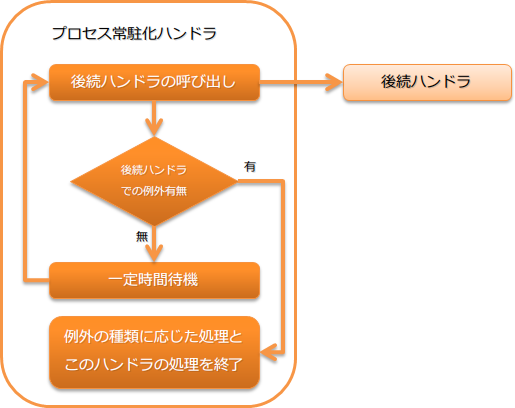
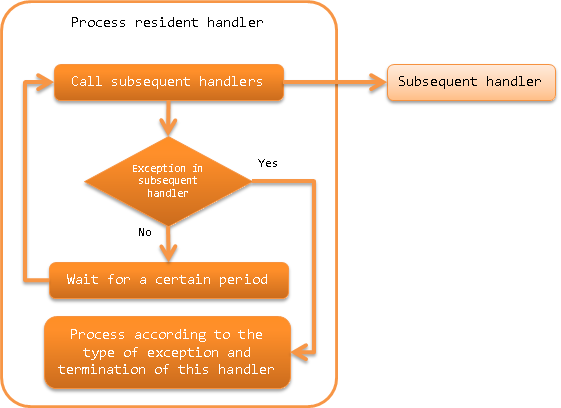
プロセス常駐化ハンドラページを英語化

diff --git a/en/application_framework/application_framework/handlers/batch/process_resident_handler.rst b/en/application_framework/application_framework/handlers/batch/process_resident_handler.rst
@@ -1,30 +1,30 @@
 .. _process_resident_handler:
 
-プロセス常駐化ハンドラ
+Process Resident Handler
 ==================================================
-.. contents:: 目次
+.. contents:: Table of contents
   :depth: 3
   :local:
 
-後続のハンドラキューの内容を一定間隔毎に繰り返し実行するハンドラ。
-本ハンドラは、特定のデータソース上の入力データを定期的に監視してバッチ処理を行う、いわゆる常駐起動型のバッチ処理で用いられる。
+A handler that repeatedly executes the contents of subsequent handler queues at regular intervals.
+This handler periodically monitors the input data of a specific data source and performs batch processing and is used in the so-called resident startup type batch process.
 
-本ハンドラでは、以下の処理を行う。
+This handler performs the following processes:
 
-* 一定間隔(データの監視間隔)毎に後続ハンドラの呼び出し。
-* 後続ハンドラで例外発生時に、このハンドラの継続有無などを判断する。
-  詳細は、 :ref:`process_resident_handler-exception` を参照。
+* Calls subsequent handlers at regular intervals (data monitoring intervals).
+* When an exception occurs in a subsequent handler, determines the continuation of the handler.
+  For details, see :ref:`process_resident_handler-exception`.
 
-処理の流れは以下のとおり。
+The process flow is as follows.
 
 .. image:: ../images/ProcessResidentHandler/flow.png
   :scale: 80
 
-ハンドラクラス名
+Handler class name
 --------------------------------------------------
 * :java:extdoc:`nablarch.fw.handler.ProcessResidentHandler`
 
-モジュール一覧
+Module list
 --------------------------------------------------
 .. code-block:: xml
 
@@ -33,88 +33,84 @@
     <artifactId>nablarch-fw-standalone</artifactId>
   </dependency>
 
-制約
+Constraints
 ------------------------------
-本ハンドラは、リトライハンドラよりも後ろに設定すること
-  本ハンドラで実行時例外を補足した場合、リトライ可能例外( :java:extdoc:`RetryableException <nablarch.fw.handler.retry.RetryableException>` )でラップしてから再送出し、
-  プロセスの継続制御を :ref:`retry_handler` に委譲する。
-  このため、このハンドラはリトライハンドラより後に設定する必要がある。
+This handler must be configured after the retry handler.
+  If a runtime exception is caught by this handler, rethrows after wrapping it with a retryable exception ( :java:extdoc:`RetryableException <nablarch.fw.handler.retry.RetryableException>` ) and delegates the process continuation control to retry_handler.
+  Therefore, this handler must be configured after the retry handler.
 
-データの監視間隔を設定する
+Configure the data monitoring interval
 --------------------------------------------------
-データの監視間隔は、 :java:extdoc:`dataWatchInterval <nablarch.fw.handler.ProcessResidentHandler.setDataWatchInterval(int)>` プロパティにミリ秒で設定する。
-設定を省略した場合のデフォルト値は、1000ミリ秒(1秒)となっている。
+Data monitoring interval is configured in milliseconds in the :java:extdoc:`dataWatchInterval <nablarch.fw.handler.ProcessResidentHandler.setDataWatchInterval(int)>` property.
+The default value when the configuration is omitted is 1000 milliseconds (1 second).
 
-以下に例を示す。
+An example is shown below.
 
 .. code-block:: xml
 
   <component name="settingsProcessResidentHandler"
       class="nablarch.fw.handler.ProcessResidentHandler">
 
-    <!-- データの監視間隔に5秒(5000)を設定 -->
+    <!-- Configure 5 seconds (5000) for data monitoring interval -->
     <property name="dataWatchInterval" value="5000" />
-    <!-- その他のプロパティは省略 -->
+    <!-- Other properties are omitted -->
   </component>
 
 .. _process_resident_handler-normal_end:
 
-プロセス常駐化ハンドラの終了方法
+How to terminate the process resident handler
 --------------------------------------------------
-このハンドラはプロセスの正常終了を示す例外が送出された場合に、後続のハンドラの呼び出しを止め処理を終了する。
-デフォルトでは、 :ref:`process_stop_handler` が送出する処理停止を示す例外( :java:extdoc:`ProcessStop <nablarch.fw.handler.ProcessStopHandler.ProcessStop>` (サブクラス含む))が送出された場合に、このハンドラは処理を終了する。
+This handler stops subsequent handler calls and terminates processing if an exception indicating the normal termination of the process has been thrown.
+By default, this handler ends when the :ref:`process_stop_handler` processing stop exception ( :java:extdoc:`ProcessStop <nablarch.fw.handler.ProcessStopHandler.ProcessStop>` (including subclasses)) is thrown.
 
-プロセスの正常終了を示す例外を変更したい場合には、 :java:extdoc:`normalEndExceptions <nablarch.fw.handler.ProcessResidentHandler.setNormalEndExceptions(java.util.List)>` プロパティに例外クラスのリストを設定する。
-なお、例外リストを設定する場合にはデフォルトの設定が上書きされるため、 :java:extdoc:`ProcessStop <nablarch.fw.handler.ProcessStopHandler.ProcessStop>` の設定を忘れずに行う必要がある。
+To change the exception that indicates successful completion of a process, configure the :java:extdoc:`normalEndExceptions <nablarch.fw.handler.ProcessResidentHandler.setNormalEndExceptions(java.util.List)>` property to a list of exception classes.
+When the exception list is configured, the default configuration is overwritten, and :java:extdoc:`ProcessStop <nablarch.fw.handler.ProcessStopHandler.ProcessStop>` has to be configured without fail.
 
-以下に例を示す。
+An example is shown below.
 
 .. code-block:: xml
 
   <component name="settingsProcessResidentHandler"
       class="nablarch.fw.handler.ProcessResidentHandler">
 
-    <!-- プロセスの正常終了を示す例外リスト -->
+    <!-- Exception list indicating the normal termination of the process -->
     <property name="normalEndExceptions">
       <list>
-        <!-- Nablarchデフォルトのプロセス停止を示す例外クラス -->
+        <!-- Exception class indicating default process stop of Nablarch -->
         <value>nablarch.fw.handler.ProcessStopHandler$ProcessStop</value>
-        <!-- プロジェクトカスタムなプロセス停止を示す例外クラス(サブクラスも対象となる) -->
+        <!-- Exception class indicating project custom process stop (subclasses are also covered) -->
         <value>sample.CustomProcessStop</value>
       </list>
     </property>
 
-    <!-- その他のプロパティは省略 -->
+    <!-- Other properties are omitted -->
   </component>
 
 .. _process_resident_handler-exception:
 
-後続ハンドラで発生した例外の扱い
---------------------------------------------------
-このハンドラでは、後続のハンドラで発生した例外の種類に応じて、処理を継続するか、終了するかが切り替わる。
+Handling exceptions that occur in subsequent handlers
+--------------------------------------------------------------------
+In this handler, processing is switched between continuation or termination depending on the type of exception that has occurred in the subsequent handler.
 
-以下に例外毎の処理内容を示す。
+The following shows the processing details of each exception.
 
-サービス閉塞中例外( :java:extdoc:`ServiceUnavailable <nablarch.fw.results.ServiceUnavailable>` )
-  サービス閉塞中例外の場合には、データ監視間隔に設定された時間分待機後に、再度後続ハンドラを実行する。
+Exception during service shutdown( :java:extdoc:`ServiceUnavailable <nablarch.fw.results.ServiceUnavailable>` )
+  In the case of an exception during service shutdown, executes the subsequent handler again after waiting for the time set in the data monitoring interval.
 
-リトライ可能例外
-  リトライ可能例外( :java:extdoc:`RetryUtil#isRetryable() <nablarch.fw.handler.retry.RetryUtil.isRetryable(java.lang.Throwable)>` が真を返す場合)の場合は、
-  何もせずに捕捉した例外を再送出する。
+Retryable exception
+  In the case of retryable exception ( :java:extdoc:`RetryUtil#isRetryable() <nablarch.fw.handler.retry.RetryUtil.isRetryable(java.lang.Throwable)>` returns true), re-throws the exception that is caught without doing anything.
 
-プロセスを異常終了する例外
-  プロセスを異常終了させることを示す例外の場合は、なにもせずに捕捉した例外を再送出する。
+Exception that terminates the process abnormally
+  For exceptions indicating abnormal termination, resends the caught exception without doing anything.
 
-  プロセスを異常終了させる例外は、 :java:extdoc:`abnormalEndExceptions <nablarch.fw.handler.ProcessResidentHandler.setAbnormalEndExceptions(java.util.List)>` 
-  プロパティに設定する。
-  デフォルトでは、 :java:extdoc:`ProcessAbnormalEnd <nablarch.fw.launcher.ProcessAbnormalEnd>` (サブクラス含む)が、異常終了対象クラスとなる。
+  Configure exceptions that terminates the process abnormally to the :java:extdoc:`abnormalEndExceptions <nablarch.fw.handler.ProcessResidentHandler.setAbnormalEndExceptions(java.util.List)>` property.
+  By default, :java:extdoc:`ProcessAbnormalEnd <nablarch.fw.launcher.ProcessAbnormalEnd>` (including subclasses) is the target class for abnormal termination.
 
-プロセスを正常終了させる例外
-  後続のハンドラから戻された結果オブジェクトを、本ハンドラの戻り値として処理を終了する。
+Exception that terminates the process normally
+  The process ends with the result object returned from the subsequent handler as the return value of this handler.
 
-  プロセスを正常終了させる例外については、 :ref:`process_resident_handler-normal_end` を参照。
+  See :ref:`process_resident_handler-normal_end` for the exception that terminates the process normally.
 
-上記以外の例外
-  例外情報をログに記録し、リトライ可能例外 ( :java:extdoc:`RetryableException <nablarch.fw.handler.retry.RetryableException>` )でラップし再送出する。
-
+Exceptions other than the above
+  Records the exception information in the log, and rethrows after wrapping with retryable exception ( :java:extdoc:`RetryableException <nablarch.fw.handler.retry.RetryableException>` ).
 
